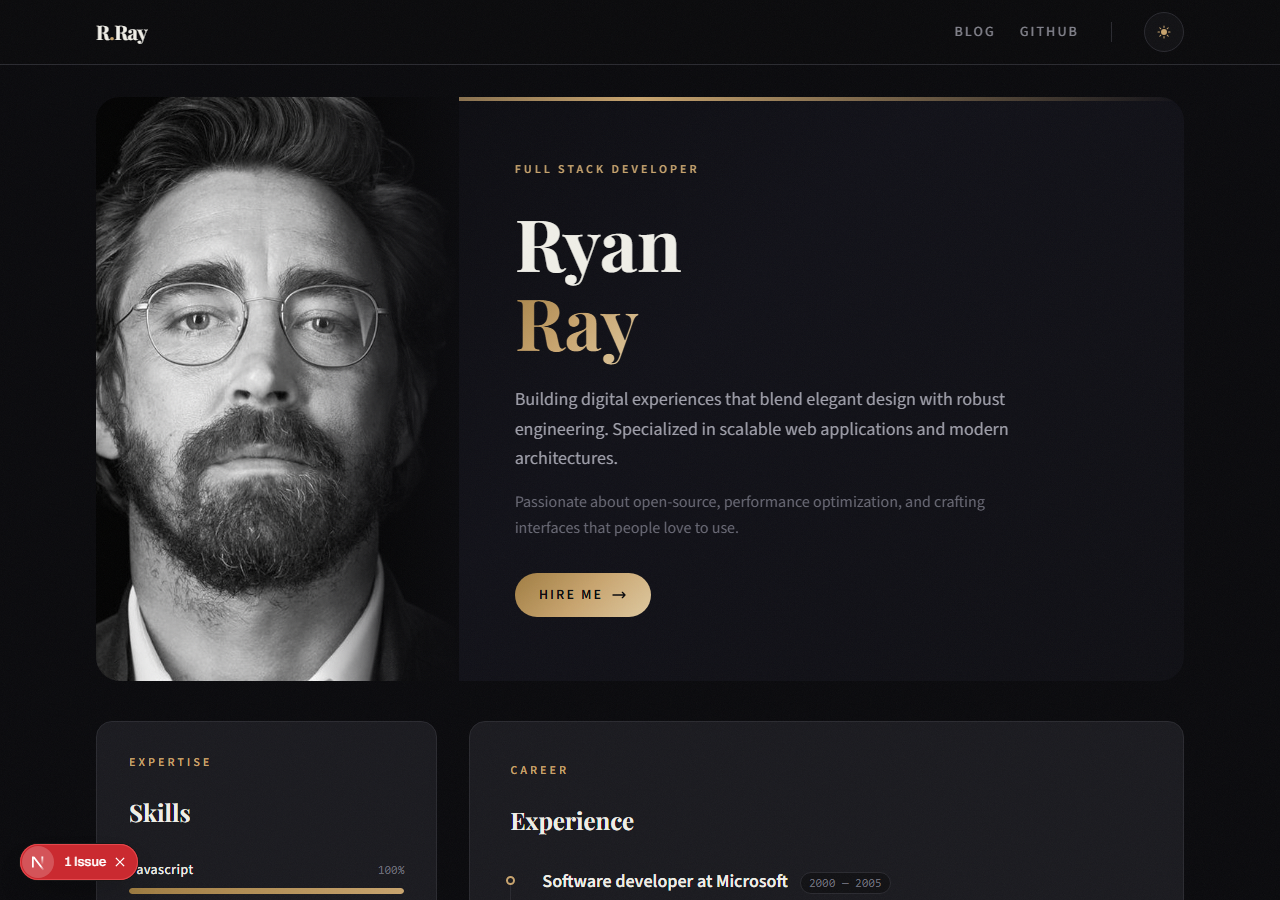
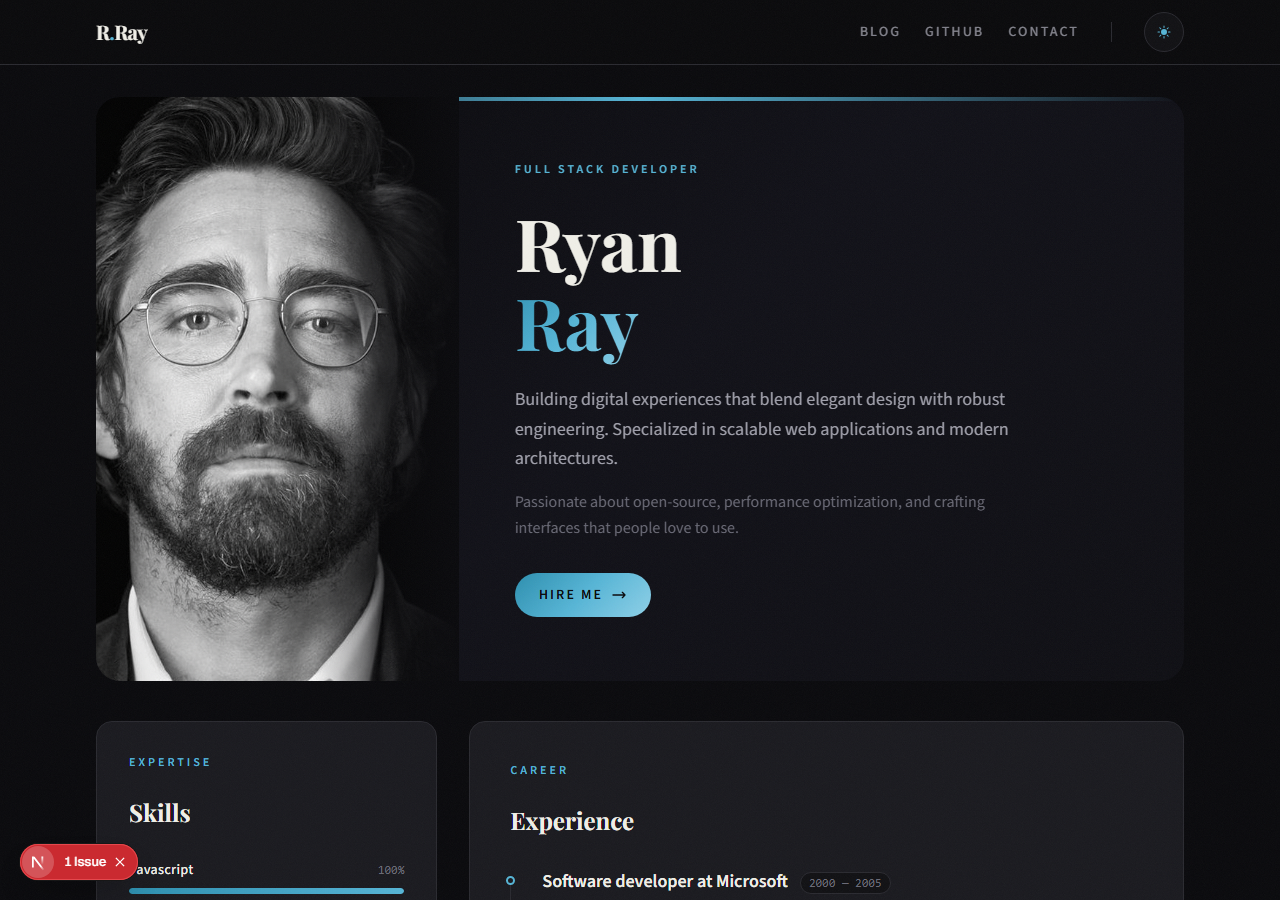
add contact page with Netlify Forms and change accent color to celeste

diff --git a/src/app/contact/page.jsx b/src/app/contact/page.jsx
@@ -1,0 +1,149 @@
+export const dynamic = "force-static";
+
+export const metadata = {
+  title: "Contact | Ryan Ray",
+  description: "Get in touch with Ryan Ray",
+};
+
+function ContactPage() {
+  return (
+    <section className="min-h-[calc(100vh-10rem)]">
+      {/* Header */}
+      <div className="text-center mb-14 animate-fade-up" style={{ opacity: 0 }}>
+        <p className="section-label">Get In Touch</p>
+        <h1
+          className="font-[family-name:var(--font-display)] text-4xl md:text-5xl font-bold mb-4"
+          style={{ color: "var(--text-primary)" }}
+        >
+          Contact
+        </h1>
+        <div className="divider-accent mx-auto" />
+        <p
+          className="text-base max-w-lg mx-auto"
+          style={{ color: "var(--text-secondary)" }}
+        >
+          Have a project in mind or want to collaborate? Send me a message and
+          I'll get back to you as soon as possible.
+        </p>
+      </div>
+
+      {/* Form */}
+      <div className="max-w-2xl mx-auto animate-fade-up stagger-2" style={{ opacity: 0 }}>
+        <div className="card-elevated p-8 md:p-12">
+          <form
+            name="contact"
+            method="POST"
+            data-netlify="true"
+            netlify-honeypot="bot-field"
+          >
+            <input type="hidden" name="form-name" value="contact" />
+            <p className="hidden">
+              <label>
+                Don't fill this out: <input name="bot-field" />
+              </label>
+            </p>
+
+            {/* Name */}
+            <div className="mb-6">
+              <label
+                htmlFor="name"
+                className="block text-sm font-medium mb-2 uppercase tracking-[0.1em]"
+                style={{ color: "var(--text-secondary)" }}
+              >
+                Name
+              </label>
+              <input
+                type="text"
+                id="name"
+                name="name"
+                required
+                className="w-full px-4 py-3 rounded-xl text-sm outline-none transition-all duration-300"
+                style={{
+                  background: "var(--bg-secondary)",
+                  border: "1px solid var(--border)",
+                  color: "var(--text-primary)",
+                }}
+                placeholder="Your name"
+              />
+            </div>
+
+            {/* Email */}
+            <div className="mb-6">
+              <label
+                htmlFor="email"
+                className="block text-sm font-medium mb-2 uppercase tracking-[0.1em]"
+                style={{ color: "var(--text-secondary)" }}
+              >
+                Email
+              </label>
+              <input
+                type="email"
+                id="email"
+                name="email"
+                required
+                className="w-full px-4 py-3 rounded-xl text-sm outline-none transition-all duration-300"
+                style={{
+                  background: "var(--bg-secondary)",
+                  border: "1px solid var(--border)",
+                  color: "var(--text-primary)",
+                }}
+                placeholder="your@email.com"
+              />
+            </div>
+
+            {/* Message */}
+            <div className="mb-8">
+              <label
+                htmlFor="message"
+                className="block text-sm font-medium mb-2 uppercase tracking-[0.1em]"
+                style={{ color: "var(--text-secondary)" }}
+              >
+                Message
+              </label>
+              <textarea
+                id="message"
+                name="message"
+                required
+                rows={5}
+                className="w-full px-4 py-3 rounded-xl text-sm outline-none resize-y transition-all duration-300"
+                style={{
+                  background: "var(--bg-secondary)",
+                  border: "1px solid var(--border)",
+                  color: "var(--text-primary)",
+                }}
+                placeholder="Tell me about your project..."
+              />
+            </div>
+
+            {/* Submit */}
+            <button
+              type="submit"
+              className="relative inline-flex items-center gap-2 px-8 py-3 text-sm font-semibold uppercase tracking-[0.15em] rounded-full transition-all duration-400 cursor-pointer group text-surface-950 hover:shadow-lg hover:shadow-accent/20 hover:-translate-y-0.5"
+              style={{
+                background:
+                  "linear-gradient(135deg, var(--accent-dark), var(--accent), var(--accent-light))",
+              }}
+            >
+              Send Message
+              <svg
+                className="w-4 h-4 transition-transform duration-300 group-hover:translate-x-1"
+                fill="none"
+                viewBox="0 0 24 24"
+                stroke="currentColor"
+                strokeWidth={2}
+              >
+                <path
+                  strokeLinecap="round"
+                  strokeLinejoin="round"
+                  d="M6 12L3.269 3.126A59.768 59.768 0 0121.485 12 59.77 59.77 0 013.27 20.876L5.999 12zm0 0h7.5"
+                />
+              </svg>
+            </button>
+          </form>
+        </div>
+      </div>
+    </section>
+  );
+}
+
+export default ContactPage;

diff --git a/src/global.css b/src/global.css
@@ -11,9 +11,9 @@
   --color-surface-950: #0a0a0d;
 
   /* Colors: accent */
-  --color-accent: #c8a46e;
-  --color-accent-light: #dfc9a0;
-  --color-accent-dark: #a07d42;
+  --color-accent: #56b5d6;
+  --color-accent-light: #8ed0e8;
+  --color-accent-dark: #2d8faf;
 
   /* Animations */
   --animate-fade-up: fadeUp 0.6s ease-out forwards;
@@ -43,8 +43,8 @@
   }
 
   @keyframes glow {
-    0% { box-shadow: 0 0 20px rgba(200,164,110,0.15); }
-    100% { box-shadow: 0 0 40px rgba(200,164,110,0.3); }
+    0% { box-shadow: 0 0 20px rgba(86,181,214,0.15); }
+    100% { box-shadow: 0 0 40px rgba(86,181,214,0.3); }
   }
 }
 
@@ -59,9 +59,9 @@
   --text-primary: #1a1a1f;
   --text-secondary: #555560;
   --text-muted: #8a8a96;
-  --accent: #c8a46e;
-  --accent-light: #dfc9a0;
-  --accent-dark: #a07d42;
+  --accent: #56b5d6;
+  --accent-light: #8ed0e8;
+  --accent-dark: #2d8faf;
   --border: #e2e0d5;
   --gradient-hero: linear-gradient(135deg, #f8f7f4 0%, #f0efe8 50%, #e8e4d8 100%);
   --noise-opacity: 0.03;
@@ -74,9 +74,9 @@
   --text-primary: #f0efe8;
   --text-secondary: #a0a0ab;
   --text-muted: #6a6a76;
-  --accent: #c8a46e;
-  --accent-light: #dfc9a0;
-  --accent-dark: #a07d42;
+  --accent: #56b5d6;
+  --accent-light: #8ed0e8;
+  --accent-dark: #2d8faf;
   --border: #2a2a30;
   --gradient-hero: linear-gradient(135deg, #0a0a0d 0%, #111118 50%, #0f0f14 100%);
   --noise-opacity: 0.04;

diff --git a/src/components/Navbar.jsx b/src/components/Navbar.jsx
@@ -38,6 +38,15 @@ export const Navbar = () => {
                 Github
               </Link>
             </li>
+            <li>
+              <Link
+                href="/contact"
+                className="hover:opacity-100 transition-opacity duration-300 uppercase tracking-[0.15em]"
+                style={{ color: "var(--text-secondary)", opacity: 0.8 }}
+              >
+                Contact
+              </Link>
+            </li>
           </ul>
           <div
             className="w-px h-5"
